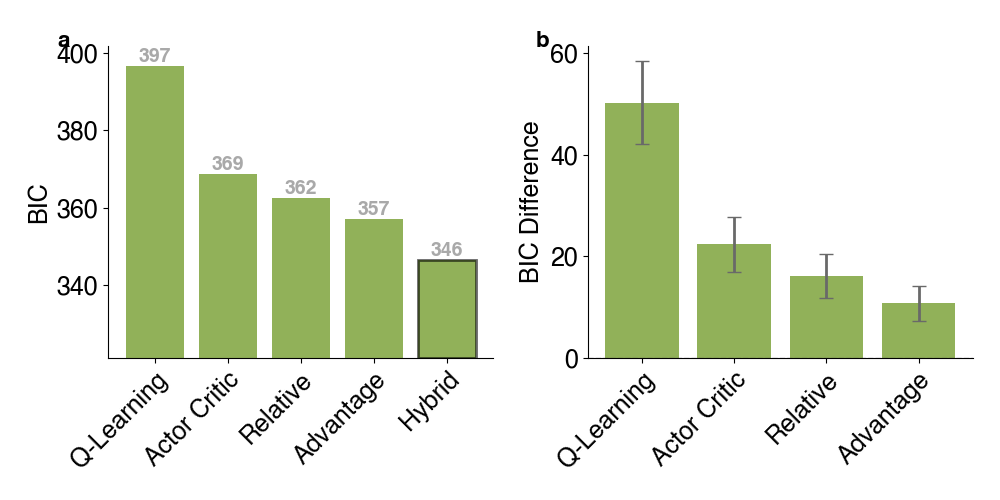
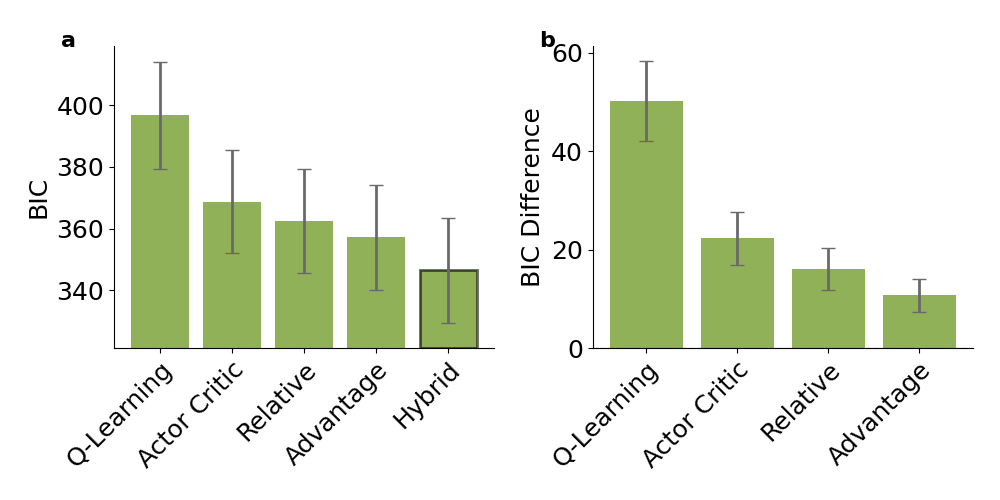
Added statistical analyses to AIC/BIC metrics for model comparison

diff --git a/RL/helpers/analyses.py b/RL/helpers/analyses.py
@@ -12,6 +12,7 @@ import numpy as np
 import tqdm
 import pickle
 import scipy
+from statsmodels.stats.multitest import multipletests
 
 from models.rl_models import RLModel
 from helpers.dataloader import DataLoader
@@ -616,6 +617,80 @@ class Analyses(Plotting):
             os.remove(os.path.join('RL','fits','temp',f))
 
         return fit_data
+    
+    def compare_model_fits(self, individual_fits: pd.DataFrame, best_model: str, criterion: str = 'BIC') -> tuple:
+
+        """
+        Statistically compare model fits (e.g., BIC) across models, treating models as a within-participant factor.
+
+        Because differences in fit between models are highly skewed, non-parametric tests are used:
+        a Friedman test across all models, followed by Wilcoxon signed-rank tests comparing each model
+        to the best fitting model, Holm-corrected for multiple comparisons.
+
+        Parameters
+        ----------
+        individual_fits : pd.DataFrame
+            DataFrame with a 'participant' column and one column per model containing each participant's fit value.
+        best_model : str
+            Name of the best fitting model (lowest mean fit), used as the reference for post-hoc comparisons.
+        criterion : str, optional
+            Name of the fit criterion, used in the output file names. Default is 'BIC'.
+
+        Returns
+        -------
+        friedman_results : pd.DataFrame
+            Friedman test results.
+        posthoc_results : pd.DataFrame
+            Wilcoxon signed-rank test results for each model versus the best model.
+
+        Returns (External)
+        ------------------
+        RL/stats/group_{criterion}_friedman : csv
+            CSV file containing the Friedman test results.
+        RL/stats/group_{criterion}_posthoc : csv
+            CSV file containing the post-hoc comparison results.
+        """
+
+        fits = individual_fits.set_index('participant').astype(float)
+        n, k = fits.shape
+
+        #Friedman test across all models
+        chi_squared, p = scipy.stats.friedmanchisquare(*[fits[model] for model in fits.columns])
+        kendalls_w = chi_squared / (n * (k - 1)) # Effect size (Kendall's W)
+        friedman_results = pd.DataFrame({'chi_squared': [chi_squared], 'df': [k - 1], 'n': [n], 'p': [p],
+                                         'kendalls_w': [kendalls_w]}, index=[criterion])
+
+        #Post-hoc Wilcoxon signed-rank tests versus the best model
+        t_crit = scipy.stats.t.ppf(.975, n-1)
+        posthoc_results = []
+        for model in [m for m in fits.columns if m != best_model]:
+            differences = fits[model] - fits[best_model]
+            W, p_value = scipy.stats.wilcoxon(differences)
+
+            #Effect size (matched-pairs rank-biserial correlation; positive = reference model fits better)
+            nonzero = differences[differences != 0]
+            ranks = scipy.stats.rankdata(nonzero.abs())
+            rank_biserial = (ranks[nonzero > 0].sum() - ranks[nonzero < 0].sum()) / ranks.sum()
+
+            posthoc_results.append({'model': model,
+                                    'reference': best_model,
+                                    'median_difference': differences.median(),
+                                    'mean_difference': differences.mean(),
+                                    'ci': t_crit * differences.std() / np.sqrt(n),
+                                    'W': W,
+                                    'n': len(nonzero),
+                                    'p': p_value,
+                                    'rank_biserial': rank_biserial,
+                                    'percent_better_fit_by_reference': (differences > 0).mean() * 100})
+        posthoc_results = pd.DataFrame(posthoc_results).set_index('model')
+        posthoc_results['p_holm'] = multipletests(posthoc_results['p'], method='holm')[1]
+
+        #Save as csv files
+        os.makedirs('RL/stats', exist_ok=True)
+        friedman_results.to_csv(f'RL/stats/group_{criterion}_friedman.csv')
+        posthoc_results.to_csv(f'RL/stats/group_{criterion}_posthoc.csv')
+
+        return friedman_results, posthoc_results
 
     def compute_criterions(self, dataloader: DataLoader,
                            fit_data: dict, 
@@ -790,6 +865,9 @@ class Analyses(Plotting):
             individual_AIC = pd.concat((individual_AIC, p_AIC), ignore_index=True)
             individual_BIC = pd.concat((individual_BIC, p_BIC), ignore_index=True)
         
+        fit_AIC_values = individual_AIC.iloc[:,1:].astype(float)
+        fit_BIC_values = individual_BIC.iloc[:,1:].astype(float)
+        
         difference_AIC = individual_AIC.copy()
         difference_BIC = individual_BIC.copy()
         difference_AIC.iloc[:,1:] = difference_AIC.iloc[:,1:].sub(difference_AIC[best_fit_AIC], axis=0)
@@ -809,14 +887,30 @@ class Analyses(Plotting):
         #Turn into two row dataframe with mean and CIs 
         diff_AIC = pd.DataFrame({'mean': diff_AIC_mean, 'ci': diff_AIC_CI}).T
         diff_BIC = pd.DataFrame({'mean': diff_BIC_mean, 'ci': diff_BIC_CI}).T
+        fit_AIC = pd.DataFrame({'mean': fit_AIC_values.mean(axis=0),
+                                'ci': t_crit * fit_AIC_values.std(axis=0) / np.sqrt(n)}).T
+        fit_BIC = pd.DataFrame({'mean': fit_BIC_values.mean(axis=0),
+                                'ci': t_crit * fit_BIC_values.std(axis=0) / np.sqrt(n)}).T
 
         #Save as csv files
         diff_AIC.to_csv('RL/fits/group_AIC_differences.csv')
         diff_BIC.to_csv('RL/fits/group_BIC_differences.csv')
 
+        #Statistical comparisons of model fits (Friedman + Holm-corrected Wilcoxon signed-rank tests vs best model)
+        for criterion, individual, best_fit in [('AIC', individual_AIC, best_fit_AIC), ('BIC', individual_BIC, best_fit_BIC)]:
+            friedman_results, posthoc_results = self.compare_model_fits(individual, best_fit, criterion)
+            if not recovery:
+                print('')
+                print(f'{criterion} MODEL COMPARISON STATISTICS')
+                print('==========')
+                print(friedman_results.round(4).T)
+                print('')
+                print(posthoc_results.round(4))
+                print('==========')
+
         #Plots
-        self.plot_model_comparisons(group_AIC, diff_AIC,  'AIC_model_comparisons')
-        self.plot_model_comparisons(group_BIC, diff_BIC,  'BIC_model_comparisons')
+        self.plot_model_comparisons(fit_AIC, diff_AIC,  'AIC_model_comparisons')
+        self.plot_model_comparisons(fit_BIC, diff_BIC,  'BIC_model_comparisons')
 
     def run_fit_simulations(self, 
                             learning_filename: str,

diff --git a/RL/helpers/plotting.py b/RL/helpers/plotting.py
@@ -909,16 +909,15 @@ class Plotting:
         #Close figure
         plt.close()
 
-    def plot_model_comparisons(self, fits: pd.DataFrame, diffs = pd.DataFrame, save_name: str = 'model_comparisons') -> None:
-
+    def plot_model_comparisons(self, fits: pd.DataFrame, diffs: pd.DataFrame, save_name: str = 'model_comparisons') -> None:
         """
         Plots the model fits as a bar plot with colors representing the fit values.
 
         Parameters
         ----------
         fits : pd.DataFrame
-            A DataFrame where the index is the model names and the values are the fit values (e.g., BIC).
-        diffs : pd.DataFrame, optional
+            A DataFrame with rows 'mean' and 'ci' and one column per model, containing the mean fit values (e.g., BIC) and their 95% CIs.
+        diffs : pd.DataFrame
             A DataFrame where the index is the model names and the values are the differences from the best fitting model. It contains mean and 95% CIs.
         save_name : str, optional
             The name to save the plot as. Default is 'model_comparisons'.
@@ -928,12 +927,12 @@ class Plotting:
         None
         """
 
-        fits = fits.loc['full'][:-1]
-        min_val, max_val = fits.min().min(), fits.max().max()
+        fits = fits.T
+        means, cis = fits['mean'].astype(float), fits['ci'].astype(float)
+        min_val, max_val = means.min(), means.max()
         range_val = max_val - min_val
-
-        fit_diffs = fits - fits.min()
-        fit_diffs = fit_diffs[fit_diffs != 0].dropna()
+        y_bottom = min(min_val-(range_val*.5), (means-cis).min()-(range_val*0.05))
+        y_top = (means+cis).max() + (range_val*0.1)
 
         model_dict = {'QLearning': 'Q-Learning', 'ActorCritic': 'Actor Critic', 'Relative': 'Relative', 'Advantage': 'Advantage','Hybrid2012': 'Hybrid'}
         models = [model_dict.get(model.split('+')[0], model) for model in fits.index]
@@ -942,12 +941,13 @@ class Plotting:
         fig, ax = plt.subplots(1, 2, figsize=(10, 5))
 
         #Raw values
-        ax[0].bar(np.arange(1, len(fits.index)+1), fits.values, color=self.get_colors('group')[0], alpha=0.9)
-        for i, v in enumerate(fits.values):
-            ax[0].text(i+1, v + (range_val*0.02), str(int(np.round(v, 0))), color='darkgrey', ha='center', fontweight='bold', fontsize=14)
-        lower_bar_index = np.where(fits.values == fits.values.min())[0][0]
-        lowest_bar_value = fits.values.min()
-        ax[0].add_patch(plt.Rectangle((lower_bar_index+0.6, min_val-(range_val*.5)), .8, lowest_bar_value-(min_val-(range_val*.5)), fill=False, edgecolor='black', lw=2, alpha=.6))
+        ax[0].bar(np.arange(1, len(fits.index)+1), means.values, color=self.get_colors('group')[0], alpha=0.9)
+        ax[0].errorbar(np.arange(1, len(fits.index)+1), means.values, yerr=cis.values, fmt='none', ecolor='dimgray', capsize=5, elinewidth=2, alpha=1.0)
+        #for i, (v, ci) in enumerate(zip(means.values, cis.values)):
+        #    ax[0].text(i+1, v + ci + (range_val*0.02), str(int(np.round(v, 0))), color='darkgrey', ha='center', fontweight='bold', fontsize=14)
+        lower_bar_index = int(np.argmin(means.values))
+        lowest_bar_value = means.values.min()
+        ax[0].add_patch(plt.Rectangle((lower_bar_index+0.6, y_bottom), .8, lowest_bar_value-y_bottom, fill=False, edgecolor='black', lw=2, alpha=.6))
 
         ax[0].set_xticks(np.arange(1, len(fits.index)+1), models)
         plt.setp(ax[0].get_xticklabels(), rotation=45, ha='right', rotation_mode='anchor')    
@@ -955,7 +955,7 @@ class Plotting:
         ax[0].set_xlabel('')
         ax[0].spines['top'].set_visible(False)
         ax[0].spines['right'].set_visible(False)
-        ax[0].set_ylim([min_val-(range_val*.5), max_val+(range_val*0.1)])
+        ax[0].set_ylim([y_bottom, y_top])
         ax[0].annotate('a', xy=(-0.1, 1.05), xytext=(0, 0), xycoords='axes fraction', textcoords='offset points', ha='right', va='top', fontweight='bold', fontsize=16)
 
         #Normalized values
@@ -965,8 +965,6 @@ class Plotting:
         range_val = max_val - min_val
         ax[1].bar(np.arange(1, len(diffs.index)+1), diffs['mean'].values, color=self.get_colors('group')[0], alpha=0.9)
         ax[1].errorbar(np.arange(1, len(diffs.index)+1), diffs['mean'].values, yerr=diffs['ci'].values, fmt='none', ecolor='dimgray', capsize=5, elinewidth=2, alpha=1.0)
-        lower_bar_index = np.where(diffs.values == diffs.values.min())[0][0]
-        lowest_bar_value = diffs.values.min()
 
         ax[1].set_xticks(np.arange(1, len(diffs.index)+1), models)
         plt.setp(ax[1].get_xticklabels(), rotation=45, ha='right', rotation_mode='anchor')    

diff --git a/RL/lite_model_comparisons.py b/RL/lite_model_comparisons.py
@@ -1,0 +1,98 @@
+"""
+Re-plot the AIC/BIC model comparison figures (plot_model_comparisons) from saved fits,
+without re-running any model fitting.
+
+Run from the repo root (same as RL_fit_main.py):
+    python RL/lite_model_comparisons.py
+
+Inputs (written by a previous fit run):
+    RL/modelling/fit_data_FIT.pkl          best-run fit per participant and model
+    RL/data/processed_learning_data.csv    empirical data (used for the number of trials in the BIC)
+    RL/data/processed_transfer_data.csv
+
+Outputs (same as compute_criterions in the full pipeline):
+    RL/plots/AIC_model_comparisons.png
+    RL/plots/BIC_model_comparisons.png
+    RL/fits/group_AIC*.csv, RL/fits/group_BIC*.csv   (overwritten)
+    RL/stats/group_AIC_friedman.csv, RL/stats/group_AIC_posthoc.csv
+    RL/stats/group_BIC_friedman.csv, RL/stats/group_BIC_posthoc.csv
+"""
+
+import os
+import sys
+import pickle
+import warnings
+import numpy as np
+import pandas as pd
+
+warnings.simplefilter(action='ignore', category=FutureWarning)
+sys.dont_write_bytecode = True
+
+# Work from the repo root, with the RL folder importable (as in RL_fit_main.py)
+RL_DIR = os.path.dirname(os.path.abspath(__file__))
+REPO_ROOT = os.path.dirname(RL_DIR)
+sys.path.insert(0, RL_DIR)
+os.chdir(REPO_ROOT)
+
+from helpers.analyses import Analyses
+from helpers.dataloader import DataLoader
+
+# =========================================== #
+# ================= INPUTS ================== #
+# =========================================== #
+
+# Note: the pickles in RL/fits/ are small test runs; the full fits are in RL/modelling/
+FIT_DATA_FILE = 'RL/modelling/fit_data_FIT.pkl'
+
+LEARNING_FILE = 'RL/data/processed_learning_data.csv'
+TRANSFER_FILE = 'RL/data/processed_transfer_data.csv'
+
+MODELS = None  # None = every model in the pickle, or e.g. ['QLearning+novel', 'Advantage+novel']
+
+
+def print_skew(fit_data: dict, dataloader: DataLoader) -> None:
+    """
+    Print the skew of each model's per-participant AIC/BIC, and of the differences from the best model
+    (the values the paired t-tests are run on). Fit values are computed exactly as in compute_criterions.
+    """
+    learning, transfer = dataloader.get_data()
+    number_trials = learning.groupby('participant').size().values[0] + transfer.groupby('participant').size().values[0]
+
+    for criterion in ['AIC', 'BIC']:
+        penalty = 2 if criterion == 'AIC' else np.log(number_trials)
+        values = pd.DataFrame({model: penalty * (data.shape[1] - 4) + 2 * data.set_index('participant')['fit']
+                               for model, data in fit_data.items()}).astype(float)
+        best_model = values.mean().idxmin()
+        differences = values.drop(columns=best_model).sub(values[best_model], axis=0)
+
+        skew = pd.DataFrame({f'{criterion} skew': values.skew(),
+                             f'Difference from {best_model} skew': differences.skew()}).reindex(values.columns)
+        print('')
+        print(f'{criterion} SKEW (|skew| > 1 = highly skewed)')
+        print('==========')
+        print(skew.round(2).to_string(na_rep='(reference)'))
+        print('==========')
+
+
+if __name__ == '__main__':
+
+    print(f'Loading fits from {FIT_DATA_FILE}...')
+    with open(FIT_DATA_FILE, 'rb') as f:
+        fit_data = pickle.load(f)
+    models = list(fit_data.keys()) if MODELS is None else MODELS
+    fit_data = {model: fit_data[model] for model in models}
+    print(f'  Models: {models}')
+    print(f'  Participants: {fit_data[models[0]]["participant"].nunique()}')
+
+    print('Loading empirical data...')
+    dataloader = DataLoader(LEARNING_FILE, TRANSFER_FILE, number_of_participants=0)
+
+    # recovery=None matches the empirical fit pipeline (also prints the fit report)
+    print('Computing AIC/BIC and plotting...')
+    os.makedirs('RL/plots', exist_ok=True)
+    os.makedirs('RL/fits', exist_ok=True)
+    Analyses().compute_criterions(dataloader, fit_data, models, dataloader.get_group_ids(), recovery=None)
+
+    print_skew(fit_data, dataloader)
+
+    print(f'Done. Figures saved to {os.path.join(REPO_ROOT, "RL", "plots")}')
